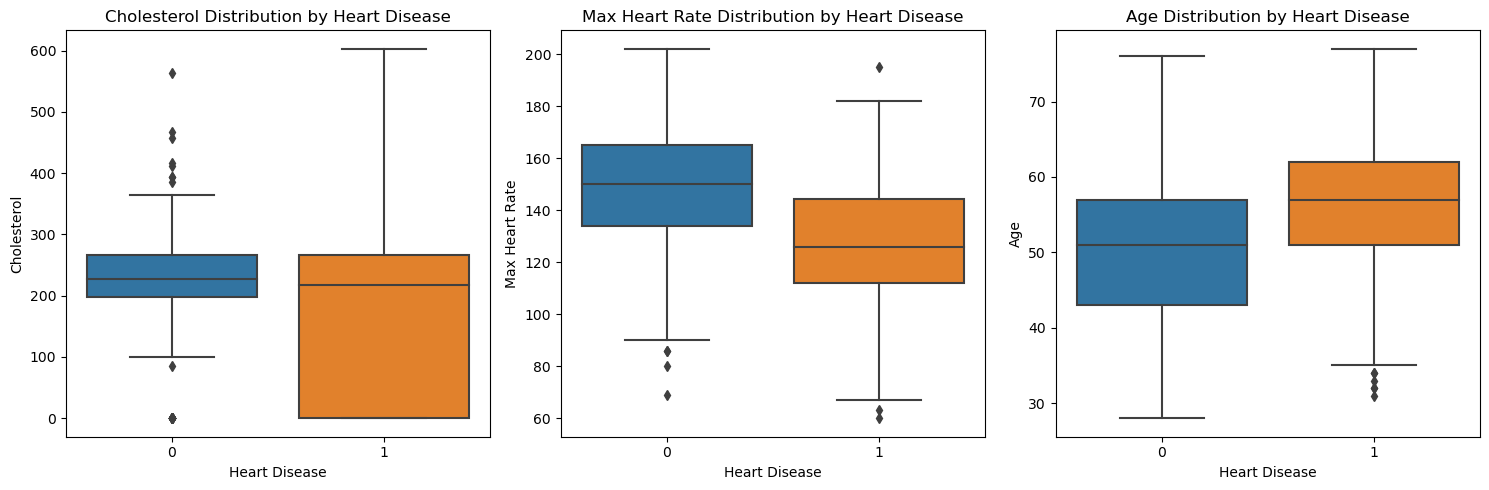
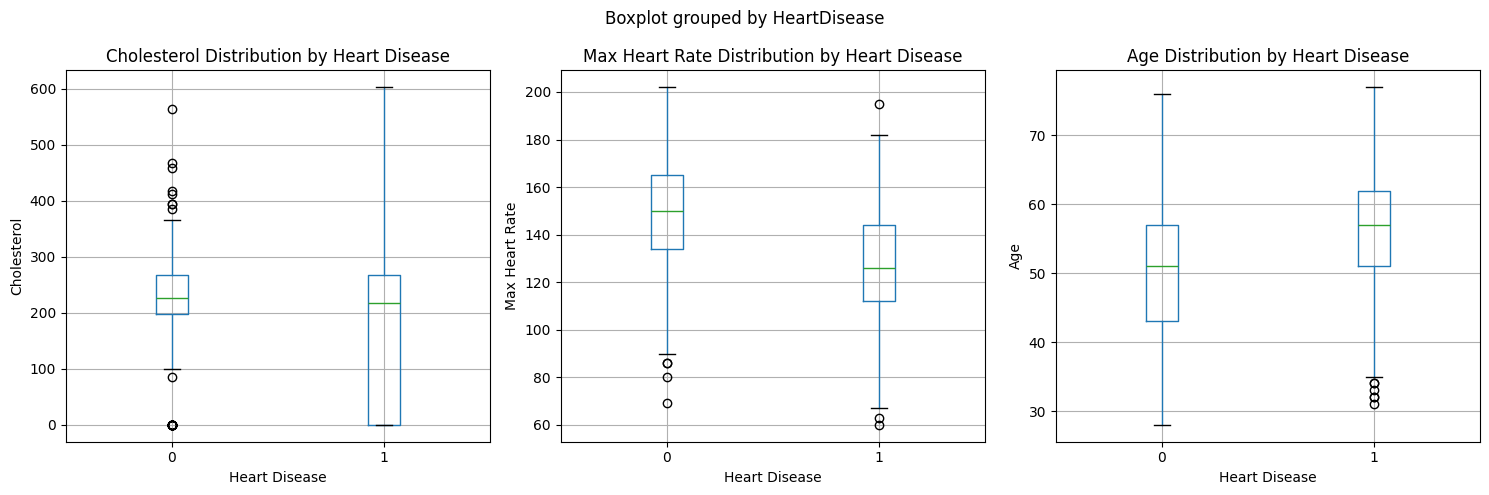
Built site for gh-pages

diff --git a/posts/2021-01-31-ebm.html b/posts/2021-01-31-ebm.html
@@ -242,26 +242,25 @@ pre > code.sourceCode > span > a:first-child::before { text-decoration: underlin
 </section>
 <section id="hands-on-tutorial" class="level2">
 <h2 class="anchored" data-anchor-id="hands-on-tutorial">Hands-On Tutorial:</h2>
-<div id="cell-7" class="cell" data-execution_count="55">
+<div id="cell-7" class="cell" data-execution_count="37">
 <div class="sourceCode cell-code" id="cb1"><pre class="sourceCode python code-with-copy"><code class="sourceCode python"><span id="cb1-1"><a href="#cb1-1" aria-hidden="true" tabindex="-1"></a><span class="im">import</span> pandas <span class="im">as</span> pd</span>
 <span id="cb1-2"><a href="#cb1-2" aria-hidden="true" tabindex="-1"></a><span class="im">import</span> numpy <span class="im">as</span> np</span>
 <span id="cb1-3"><a href="#cb1-3" aria-hidden="true" tabindex="-1"></a><span class="im">import</span> matplotlib.pyplot <span class="im">as</span> plt</span>
-<span id="cb1-4"><a href="#cb1-4" aria-hidden="true" tabindex="-1"></a><span class="im">import</span> seaborn <span class="im">as</span> sns</span>
-<span id="cb1-5"><a href="#cb1-5" aria-hidden="true" tabindex="-1"></a><span class="im">import</span> kagglehub</span>
-<span id="cb1-6"><a href="#cb1-6" aria-hidden="true" tabindex="-1"></a><span class="im">from</span> sklearn.feature_selection <span class="im">import</span> mutual_info_classif</span>
-<span id="cb1-7"><a href="#cb1-7" aria-hidden="true" tabindex="-1"></a><span class="im">from</span> sklearn.model_selection <span class="im">import</span> train_test_split</span>
-<span id="cb1-8"><a href="#cb1-8" aria-hidden="true" tabindex="-1"></a><span class="im">from</span> sklearn.metrics <span class="im">import</span> roc_auc_score</span>
-<span id="cb1-9"><a href="#cb1-9" aria-hidden="true" tabindex="-1"></a><span class="im">from</span> sklearn.metrics <span class="im">import</span> accuracy_score, precision_score, recall_score, f1_score</span>
-<span id="cb1-10"><a href="#cb1-10" aria-hidden="true" tabindex="-1"></a><span class="im">from</span> interpret <span class="im">import</span> show</span>
-<span id="cb1-11"><a href="#cb1-11" aria-hidden="true" tabindex="-1"></a><span class="im">from</span> interpret.glassbox <span class="im">import</span> ExplainableBoostingClassifier</span>
-<span id="cb1-12"><a href="#cb1-12" aria-hidden="true" tabindex="-1"></a><span class="im">from</span> sklearn.ensemble <span class="im">import</span> RandomForestClassifier</span>
-<span id="cb1-13"><a href="#cb1-13" aria-hidden="true" tabindex="-1"></a><span class="im">import</span> xgboost <span class="im">as</span> xgb</span>
-<span id="cb1-14"><a href="#cb1-14" aria-hidden="true" tabindex="-1"></a></span>
-<span id="cb1-15"><a href="#cb1-15" aria-hidden="true" tabindex="-1"></a><span class="co"># Suppress warnings</span></span>
-<span id="cb1-16"><a href="#cb1-16" aria-hidden="true" tabindex="-1"></a><span class="im">import</span> warnings</span>
-<span id="cb1-17"><a href="#cb1-17" aria-hidden="true" tabindex="-1"></a>warnings.filterwarnings(<span class="st">'ignore'</span>)</span>
-<span id="cb1-18"><a href="#cb1-18" aria-hidden="true" tabindex="-1"></a></span>
-<span id="cb1-19"><a href="#cb1-19" aria-hidden="true" tabindex="-1"></a><span class="op">%</span>matplotlib inline</span></code><button title="Copy to Clipboard" class="code-copy-button"><i class="bi"></i></button></pre></div>
+<span id="cb1-4"><a href="#cb1-4" aria-hidden="true" tabindex="-1"></a><span class="im">import</span> kagglehub</span>
+<span id="cb1-5"><a href="#cb1-5" aria-hidden="true" tabindex="-1"></a><span class="im">from</span> sklearn.feature_selection <span class="im">import</span> mutual_info_classif</span>
+<span id="cb1-6"><a href="#cb1-6" aria-hidden="true" tabindex="-1"></a><span class="im">from</span> sklearn.model_selection <span class="im">import</span> train_test_split</span>
+<span id="cb1-7"><a href="#cb1-7" aria-hidden="true" tabindex="-1"></a><span class="im">from</span> sklearn.metrics <span class="im">import</span> roc_auc_score</span>
+<span id="cb1-8"><a href="#cb1-8" aria-hidden="true" tabindex="-1"></a><span class="im">from</span> sklearn.metrics <span class="im">import</span> accuracy_score, precision_score, recall_score, f1_score</span>
+<span id="cb1-9"><a href="#cb1-9" aria-hidden="true" tabindex="-1"></a><span class="im">from</span> interpret <span class="im">import</span> show</span>
+<span id="cb1-10"><a href="#cb1-10" aria-hidden="true" tabindex="-1"></a><span class="im">from</span> interpret.glassbox <span class="im">import</span> ExplainableBoostingClassifier</span>
+<span id="cb1-11"><a href="#cb1-11" aria-hidden="true" tabindex="-1"></a><span class="im">from</span> sklearn.ensemble <span class="im">import</span> RandomForestClassifier</span>
+<span id="cb1-12"><a href="#cb1-12" aria-hidden="true" tabindex="-1"></a><span class="im">import</span> xgboost <span class="im">as</span> xgb</span>
+<span id="cb1-13"><a href="#cb1-13" aria-hidden="true" tabindex="-1"></a></span>
+<span id="cb1-14"><a href="#cb1-14" aria-hidden="true" tabindex="-1"></a><span class="co"># Suppress warnings</span></span>
+<span id="cb1-15"><a href="#cb1-15" aria-hidden="true" tabindex="-1"></a><span class="im">import</span> warnings</span>
+<span id="cb1-16"><a href="#cb1-16" aria-hidden="true" tabindex="-1"></a>warnings.filterwarnings(<span class="st">'ignore'</span>)</span>
+<span id="cb1-17"><a href="#cb1-17" aria-hidden="true" tabindex="-1"></a></span>
+<span id="cb1-18"><a href="#cb1-18" aria-hidden="true" tabindex="-1"></a><span class="op">%</span>matplotlib inline</span></code><button title="Copy to Clipboard" class="code-copy-button"><i class="bi"></i></button></pre></div>
 </div>
 <section id="downloading-the-dataset" class="level3">
 <h3 class="anchored" data-anchor-id="downloading-the-dataset">Downloading the dataset:</h3>
@@ -273,7 +272,7 @@ pre > code.sourceCode > span > a:first-child::before { text-decoration: underlin
 <li>This will download a <code>kaggle.json</code> file - place it in <code>~/.kaggle/</code> on Linux/Mac or <code>C:\Users\&lt;Windows-username&gt;\.kaggle\</code> on Windows.</li>
 </ol>
 <p>Once set up, you can download the dataset using the Kaggle API. We’ll show the code for this in the next cell.</p>
-<div id="cell-10" class="cell" data-execution_count="56">
+<div id="cell-10" class="cell" data-execution_count="38">
 <div class="sourceCode cell-code" id="cb2"><pre class="sourceCode python code-with-copy"><code class="sourceCode python"><span id="cb2-1"><a href="#cb2-1" aria-hidden="true" tabindex="-1"></a><span class="co"># Download latest version</span></span>
 <span id="cb2-2"><a href="#cb2-2" aria-hidden="true" tabindex="-1"></a>path <span class="op">=</span> kagglehub.dataset_download(<span class="st">"fedesoriano/heart-failure-prediction"</span>)</span>
 <span id="cb2-3"><a href="#cb2-3" aria-hidden="true" tabindex="-1"></a></span>
@@ -283,10 +282,10 @@ pre > code.sourceCode > span > a:first-child::before { text-decoration: underlin
 </div>
 </div>
 <p>Let’s load the dataset:</p>
-<div id="cell-12" class="cell" data-execution_count="57">
+<div id="cell-12" class="cell" data-execution_count="39">
 <div class="sourceCode cell-code" id="cb4"><pre class="sourceCode python code-with-copy"><code class="sourceCode python"><span id="cb4-1"><a href="#cb4-1" aria-hidden="true" tabindex="-1"></a>df<span class="op">=</span> pd.read_csv(path <span class="op">+</span> <span class="st">"/heart.csv"</span>)</span>
 <span id="cb4-2"><a href="#cb4-2" aria-hidden="true" tabindex="-1"></a>df.head()</span></code><button title="Copy to Clipboard" class="code-copy-button"><i class="bi"></i></button></pre></div>
-<div class="cell-output cell-output-display" data-execution_count="57">
+<div class="cell-output cell-output-display" data-execution_count="39">
 <div>
 <div>
 
@@ -412,11 +411,11 @@ pre > code.sourceCode > span > a:first-child::before { text-decoration: underlin
 <section id="exploratory-data-analysis" class="level3">
 <h3 class="anchored" data-anchor-id="exploratory-data-analysis">Exploratory Data Analysis:</h3>
 <p>Let’s start by exploring the dataset with some basic visualizations and statistics.</p>
-<div id="cell-16" class="cell" data-execution_count="58">
+<div id="cell-16" class="cell" data-execution_count="40">
 <div class="sourceCode cell-code" id="cb5"><pre class="sourceCode python code-with-copy"><code class="sourceCode python"><span id="cb5-1"><a href="#cb5-1" aria-hidden="true" tabindex="-1"></a><span class="co"># Check for missing values</span></span>
 <span id="cb5-2"><a href="#cb5-2" aria-hidden="true" tabindex="-1"></a>missing_values <span class="op">=</span> df.isnull().<span class="bu">sum</span>()</span></code><button title="Copy to Clipboard" class="code-copy-button"><i class="bi"></i></button></pre></div>
 </div>
-<div id="cell-17" class="cell" data-execution_count="59">
+<div id="cell-17" class="cell" data-execution_count="41">
 <div class="sourceCode cell-code" id="cb6"><pre class="sourceCode python code-with-copy"><code class="sourceCode python"><span id="cb6-1"><a href="#cb6-1" aria-hidden="true" tabindex="-1"></a><span class="co"># Check for class imbalance</span></span>
 <span id="cb6-2"><a href="#cb6-2" aria-hidden="true" tabindex="-1"></a>class_counts <span class="op">=</span> df[<span class="st">'HeartDisease'</span>].value_counts()</span>
 <span id="cb6-3"><a href="#cb6-3" aria-hidden="true" tabindex="-1"></a></span>
@@ -439,7 +438,7 @@ pre > code.sourceCode > span > a:first-child::before { text-decoration: underlin
 <p>Next, we’ll analyze the mutual information between our features and the target variable. Mutual information (MI) is a measure from information theory that quantifies the mutual dependence between two variables - specifically, it measures how much information one variable provides about another.</p>
 <p>When used in feature analysis, MI helps us understand: 1. The strength of the relationship between each feature and the target variable (HeartDisease) 2. The amount of uncertainty about the target that is reduced by knowing a feature 3. Non-linear relationships that might not be captured by simpler correlation metrics</p>
 <p>Unlike correlation coefficients, mutual information: - Can detect non-linear relationships - Is always non-negative (0 indicates no mutual information, higher values indicate stronger relationships) - Doesn’t assume any particular distribution of the variables</p>
-<div id="cell-19" class="cell" data-execution_count="60">
+<div id="cell-19" class="cell" data-execution_count="42">
 <div class="sourceCode cell-code" id="cb7"><pre class="sourceCode python code-with-copy"><code class="sourceCode python"><span id="cb7-1"><a href="#cb7-1" aria-hidden="true" tabindex="-1"></a>X <span class="op">=</span> df.copy()</span>
 <span id="cb7-2"><a href="#cb7-2" aria-hidden="true" tabindex="-1"></a>y <span class="op">=</span> X.pop(<span class="st">"HeartDisease"</span>)</span>
 <span id="cb7-3"><a href="#cb7-3" aria-hidden="true" tabindex="-1"></a></span>
@@ -449,7 +448,7 @@ pre > code.sourceCode > span > a:first-child::before { text-decoration: underlin
 <span id="cb7-7"><a href="#cb7-7" aria-hidden="true" tabindex="-1"></a></span>
 <span id="cb7-8"><a href="#cb7-8" aria-hidden="true" tabindex="-1"></a>discrete_features <span class="op">=</span> X.dtypes <span class="op">==</span> <span class="bu">int</span></span></code><button title="Copy to Clipboard" class="code-copy-button"><i class="bi"></i></button></pre></div>
 </div>
-<div id="cell-20" class="cell" data-execution_count="61">
+<div id="cell-20" class="cell" data-execution_count="43">
 <div class="sourceCode cell-code" id="cb8"><pre class="sourceCode python code-with-copy"><code class="sourceCode python"><span id="cb8-1"><a href="#cb8-1" aria-hidden="true" tabindex="-1"></a><span class="kw">def</span> make_mi_scores(X, y, discrete_features):</span>
 <span id="cb8-2"><a href="#cb8-2" aria-hidden="true" tabindex="-1"></a>    mi_scores <span class="op">=</span> mutual_info_classif(X, y, discrete_features<span class="op">=</span>discrete_features)</span>
 <span id="cb8-3"><a href="#cb8-3" aria-hidden="true" tabindex="-1"></a>    mi_scores <span class="op">=</span> pd.Series(mi_scores, name<span class="op">=</span><span class="st">"MI Scores"</span>, index<span class="op">=</span>X.columns)</span>
@@ -458,7 +457,7 @@ pre > code.sourceCode > span > a:first-child::before { text-decoration: underlin
 <span id="cb8-6"><a href="#cb8-6" aria-hidden="true" tabindex="-1"></a></span>
 <span id="cb8-7"><a href="#cb8-7" aria-hidden="true" tabindex="-1"></a>mi_scores <span class="op">=</span> make_mi_scores(X, y, discrete_features)</span>
 <span id="cb8-8"><a href="#cb8-8" aria-hidden="true" tabindex="-1"></a>mi_scores[::<span class="dv">3</span>]</span></code><button title="Copy to Clipboard" class="code-copy-button"><i class="bi"></i></button></pre></div>
-<div class="cell-output cell-output-display" data-execution_count="61">
+<div class="cell-output cell-output-display" data-execution_count="43">
 <pre><code>Cholesterol      0.223062
 ChestPainType    0.155988
 Age              0.073583
@@ -467,7 +466,7 @@ Name: MI Scores, dtype: float64</code></pre>
 </div>
 </div>
 <p>Now, let’s plot the MI scores for each feature:</p>
-<div id="cell-22" class="cell" data-execution_count="62">
+<div id="cell-22" class="cell" data-execution_count="44">
 <div class="sourceCode cell-code" id="cb10"><pre class="sourceCode python code-with-copy"><code class="sourceCode python"><span id="cb10-1"><a href="#cb10-1" aria-hidden="true" tabindex="-1"></a><span class="kw">def</span> plot_mi_scores(scores):</span>
 <span id="cb10-2"><a href="#cb10-2" aria-hidden="true" tabindex="-1"></a>    scores <span class="op">=</span> scores.sort_values(ascending<span class="op">=</span><span class="va">True</span>)</span>
 <span id="cb10-3"><a href="#cb10-3" aria-hidden="true" tabindex="-1"></a>    width <span class="op">=</span> np.arange(<span class="bu">len</span>(scores))</span>
@@ -487,9 +486,9 @@ Name: MI Scores, dtype: float64</code></pre>
 </div>
 </div>
 </div>
-<div id="cell-23" class="cell" data-execution_count="63">
+<div id="cell-23" class="cell" data-execution_count="45">
 <div class="sourceCode cell-code" id="cb11"><pre class="sourceCode python code-with-copy"><code class="sourceCode python"><span id="cb11-1"><a href="#cb11-1" aria-hidden="true" tabindex="-1"></a>mi_scores</span></code><button title="Copy to Clipboard" class="code-copy-button"><i class="bi"></i></button></pre></div>
-<div class="cell-output cell-output-display" data-execution_count="63">
+<div class="cell-output cell-output-display" data-execution_count="45">
 <pre><code>Cholesterol       0.223062
 ST_Slope          0.207474
 MaxHR             0.161544
@@ -513,27 +512,27 @@ Name: MI Scores, dtype: float64</code></pre>
 </ul>
 <p>This suggests that cholesterol levels, ST_Slope, maximum heart rate achieved during exercise and chest pain characteristics should be key features to focus on in our model. The relatively lower scores for age and blood sugar indicate they may be less predictive, though still potentially useful.</p>
 <p>Can we look at some box plots to confirm the relationship between the features and the target variable?</p>
-<div id="cell-25" class="cell" data-execution_count="64">
+<div id="cell-25" class="cell" data-execution_count="46">
 <div class="sourceCode cell-code" id="cb13"><pre class="sourceCode python code-with-copy"><code class="sourceCode python"><span id="cb13-1"><a href="#cb13-1" aria-hidden="true" tabindex="-1"></a><span class="co"># Create box plots to better show the relationship between features and heart disease</span></span>
 <span id="cb13-2"><a href="#cb13-2" aria-hidden="true" tabindex="-1"></a>plt.figure(figsize<span class="op">=</span>(<span class="dv">15</span>, <span class="dv">5</span>))</span>
 <span id="cb13-3"><a href="#cb13-3" aria-hidden="true" tabindex="-1"></a></span>
 <span id="cb13-4"><a href="#cb13-4" aria-hidden="true" tabindex="-1"></a><span class="co"># Plot Cholesterol distribution by Heart Disease</span></span>
 <span id="cb13-5"><a href="#cb13-5" aria-hidden="true" tabindex="-1"></a>plt.subplot(<span class="dv">131</span>)</span>
-<span id="cb13-6"><a href="#cb13-6" aria-hidden="true" tabindex="-1"></a>sns.boxplot(x<span class="op">=</span><span class="st">'HeartDisease'</span>, y<span class="op">=</span><span class="st">'Cholesterol'</span>, data<span class="op">=</span>pd.concat([X, y], axis<span class="op">=</span><span class="dv">1</span>))</span>
+<span id="cb13-6"><a href="#cb13-6" aria-hidden="true" tabindex="-1"></a>df.boxplot(column<span class="op">=</span><span class="st">'Cholesterol'</span>, by<span class="op">=</span><span class="st">'HeartDisease'</span>, ax<span class="op">=</span>plt.gca())</span>
 <span id="cb13-7"><a href="#cb13-7" aria-hidden="true" tabindex="-1"></a>plt.xlabel(<span class="st">'Heart Disease'</span>)</span>
 <span id="cb13-8"><a href="#cb13-8" aria-hidden="true" tabindex="-1"></a>plt.ylabel(<span class="st">'Cholesterol'</span>)</span>
 <span id="cb13-9"><a href="#cb13-9" aria-hidden="true" tabindex="-1"></a>plt.title(<span class="st">'Cholesterol Distribution by Heart Disease'</span>)</span>
 <span id="cb13-10"><a href="#cb13-10" aria-hidden="true" tabindex="-1"></a></span>
 <span id="cb13-11"><a href="#cb13-11" aria-hidden="true" tabindex="-1"></a><span class="co"># Plot MaxHR distribution by Heart Disease</span></span>
 <span id="cb13-12"><a href="#cb13-12" aria-hidden="true" tabindex="-1"></a>plt.subplot(<span class="dv">132</span>)</span>
-<span id="cb13-13"><a href="#cb13-13" aria-hidden="true" tabindex="-1"></a>sns.boxplot(x<span class="op">=</span><span class="st">'HeartDisease'</span>, y<span class="op">=</span><span class="st">'MaxHR'</span>, data<span class="op">=</span>pd.concat([X, y], axis<span class="op">=</span><span class="dv">1</span>))</span>
+<span id="cb13-13"><a href="#cb13-13" aria-hidden="true" tabindex="-1"></a>df.boxplot(column<span class="op">=</span><span class="st">'MaxHR'</span>, by<span class="op">=</span><span class="st">'HeartDisease'</span>, ax<span class="op">=</span>plt.gca())</span>
 <span id="cb13-14"><a href="#cb13-14" aria-hidden="true" tabindex="-1"></a>plt.xlabel(<span class="st">'Heart Disease'</span>)</span>
 <span id="cb13-15"><a href="#cb13-15" aria-hidden="true" tabindex="-1"></a>plt.ylabel(<span class="st">'Max Heart Rate'</span>)</span>
 <span id="cb13-16"><a href="#cb13-16" aria-hidden="true" tabindex="-1"></a>plt.title(<span class="st">'Max Heart Rate Distribution by Heart Disease'</span>)</span>
 <span id="cb13-17"><a href="#cb13-17" aria-hidden="true" tabindex="-1"></a></span>
 <span id="cb13-18"><a href="#cb13-18" aria-hidden="true" tabindex="-1"></a><span class="co"># Plot Age distribution by Heart Disease</span></span>
 <span id="cb13-19"><a href="#cb13-19" aria-hidden="true" tabindex="-1"></a>plt.subplot(<span class="dv">133</span>)</span>
-<span id="cb13-20"><a href="#cb13-20" aria-hidden="true" tabindex="-1"></a>sns.boxplot(x<span class="op">=</span><span class="st">'HeartDisease'</span>, y<span class="op">=</span><span class="st">'Age'</span>, data<span class="op">=</span>pd.concat([X, y], axis<span class="op">=</span><span class="dv">1</span>))</span>
+<span id="cb13-20"><a href="#cb13-20" aria-hidden="true" tabindex="-1"></a>df.boxplot(column<span class="op">=</span><span class="st">'Age'</span>, by<span class="op">=</span><span class="st">'HeartDisease'</span>, ax<span class="op">=</span>plt.gca())</span>
 <span id="cb13-21"><a href="#cb13-21" aria-hidden="true" tabindex="-1"></a>plt.xlabel(<span class="st">'Heart Disease'</span>)</span>
 <span id="cb13-22"><a href="#cb13-22" aria-hidden="true" tabindex="-1"></a>plt.ylabel(<span class="st">'Age'</span>)</span>
 <span id="cb13-23"><a href="#cb13-23" aria-hidden="true" tabindex="-1"></a>plt.title(<span class="st">'Age Distribution by Heart Disease'</span>)</span>
@@ -572,10 +571,10 @@ Name: MI Scores, dtype: float64</code></pre>
 </ul>
 <p>This means we can use our raw data directly without extensive preprocessing, which is one of the advantages of using EBMs. The model will learn the appropriate transformations for each feature during training while maintaining interpretability.</p>
 <p><em>Isn’t this cool? 🤯</em></p>
-<div id="cell-29" class="cell" data-execution_count="65">
+<div id="cell-29" class="cell" data-execution_count="47">
 <div class="sourceCode cell-code" id="cb14"><pre class="sourceCode python code-with-copy"><code class="sourceCode python"><span id="cb14-1"><a href="#cb14-1" aria-hidden="true" tabindex="-1"></a><span class="co"># one look at the data before we build the model</span></span>
 <span id="cb14-2"><a href="#cb14-2" aria-hidden="true" tabindex="-1"></a>df.head()</span></code><button title="Copy to Clipboard" class="code-copy-button"><i class="bi"></i></button></pre></div>
-<div class="cell-output cell-output-display" data-execution_count="65">
+<div class="cell-output cell-output-display" data-execution_count="47">
 <div>
 <div>
 
@@ -682,7 +681,7 @@ Name: MI Scores, dtype: float64</code></pre>
 </div>
 </div>
 <p>Splitting the data into train and test sets:</p>
-<div id="cell-31" class="cell" data-execution_count="66">
+<div id="cell-31" class="cell" data-execution_count="48">
 <div class="sourceCode cell-code" id="cb15"><pre class="sourceCode python code-with-copy"><code class="sourceCode python"><span id="cb15-1"><a href="#cb15-1" aria-hidden="true" tabindex="-1"></a>X <span class="op">=</span> df.iloc[:, :<span class="op">-</span><span class="dv">1</span>]</span>
 <span id="cb15-2"><a href="#cb15-2" aria-hidden="true" tabindex="-1"></a>y <span class="op">=</span> df.iloc[:, <span class="op">-</span><span class="dv">1</span>]</span>
 <span id="cb15-3"><a href="#cb15-3" aria-hidden="true" tabindex="-1"></a></span>
@@ -691,7 +690,7 @@ Name: MI Scores, dtype: float64</code></pre>
 <span id="cb15-6"><a href="#cb15-6" aria-hidden="true" tabindex="-1"></a>X_train, X_test, y_train, y_test <span class="op">=</span> train_test_split(X, y, test_size<span class="op">=</span><span class="fl">0.20</span>, random_state<span class="op">=</span>seed)</span></code><button title="Copy to Clipboard" class="code-copy-button"><i class="bi"></i></button></pre></div>
 </div>
 <p>Let’s train a simple EBM model:</p>
-<div id="cell-33" class="cell" data-execution_count="67">
+<div id="cell-33" class="cell" data-execution_count="49">
 <div class="sourceCode cell-code" id="cb16"><pre class="sourceCode python code-with-copy"><code class="sourceCode python"><span id="cb16-1"><a href="#cb16-1" aria-hidden="true" tabindex="-1"></a>ebm <span class="op">=</span> ExplainableBoostingClassifier()</span>
 <span id="cb16-2"><a href="#cb16-2" aria-hidden="true" tabindex="-1"></a>ebm.fit(X_train, y_train)</span></code><button title="Copy to Clipboard" class="code-copy-button"><i class="bi"></i></button></pre></div>
 <div class="cell-output cell-output-stderr">
@@ -712,12 +711,12 @@ Name: MI Scores, dtype: float64</code></pre>
 /Users/mehuljain/miniconda3/envs/aaamlp/lib/python3.10/site-packages/pandas/core/arrays/masked.py:60: UserWarning: Pandas requires version '1.3.6' or newer of 'bottleneck' (version '1.3.5' currently installed).
   from pandas.core import (</code></pre>
 </div>
-<div class="cell-output cell-output-display" data-execution_count="67">
+<div class="cell-output cell-output-display" data-execution_count="49">
 <style>#sk-container-id-2 {color: black;background-color: white;}#sk-container-id-2 pre{padding: 0;}#sk-container-id-2 div.sk-toggleable {background-color: white;}#sk-container-id-2 label.sk-toggleable__label {cursor: pointer;display: block;width: 100%;margin-bottom: 0;padding: 0.3em;box-sizing: border-box;text-align: center;}#sk-container-id-2 label.sk-toggleable__label-arrow:before {content: "▸";float: left;margin-right: 0.25em;color: #696969;}#sk-container-id-2 label.sk-toggleable__label-arrow:hover:before {color: black;}#sk-container-id-2 div.sk-estimator:hover label.sk-toggleable__label-arrow:before {color: black;}#sk-container-id-2 div.sk-toggleable__content {max-height: 0;max-width: 0;overflow: hidden;text-align: left;background-color: #f0f8ff;}#sk-container-id-2 div.sk-toggleable__content pre {margin: 0.2em;color: black;border-radius: 0.25em;background-color: #f0f8ff;}#sk-container-id-2 input.sk-toggleable__control:checked~div.sk-toggleable__content {max-height: 200px;max-width: 100%;overflow: auto;}#sk-container-id-2 input.sk-toggleable__control:checked~label.sk-toggleable__label-arrow:before {content: "▾";}#sk-container-id-2 div.sk-estimator input.sk-toggleable__control:checked~label.sk-toggleable__label {background-color: #d4ebff;}#sk-container-id-2 div.sk-label input.sk-toggleable__control:checked~label.sk-toggleable__label {background-color: #d4ebff;}#sk-container-id-2 input.sk-hidden--visually {border: 0;clip: rect(1px 1px 1px 1px);clip: rect(1px, 1px, 1px, 1px);height: 1px;margin: -1px;overflow: hidden;padding: 0;position: absolute;width: 1px;}#sk-container-id-2 div.sk-estimator {font-family: monospace;background-color: #f0f8ff;border: 1px dotted black;border-radius: 0.25em;box-sizing: border-box;margin-bottom: 0.5em;}#sk-container-id-2 div.sk-estimator:hover {background-color: #d4ebff;}#sk-container-id-2 div.sk-parallel-item::after {content: "";width: 100%;border-bottom: 1px solid gray;flex-grow: 1;}#sk-container-id-2 div.sk-label:hover label.sk-toggleable__label {background-color: #d4ebff;}#sk-container-id-2 div.sk-serial::before {content: "";position: absolute;border-left: 1px solid gray;box-sizing: border-box;top: 0;bottom: 0;left: 50%;z-index: 0;}#sk-container-id-2 div.sk-serial {display: flex;flex-direction: column;align-items: center;background-color: white;padding-right: 0.2em;padding-left: 0.2em;position: relative;}#sk-container-id-2 div.sk-item {position: relative;z-index: 1;}#sk-container-id-2 div.sk-parallel {display: flex;align-items: stretch;justify-content: center;background-color: white;position: relative;}#sk-container-id-2 div.sk-item::before, #sk-container-id-2 div.sk-parallel-item::before {content: "";position: absolute;border-left: 1px solid gray;box-sizing: border-box;top: 0;bottom: 0;left: 50%;z-index: -1;}#sk-container-id-2 div.sk-parallel-item {display: flex;flex-direction: column;z-index: 1;position: relative;background-color: white;}#sk-container-id-2 div.sk-parallel-item:first-child::after {align-self: flex-end;width: 50%;}#sk-container-id-2 div.sk-parallel-item:last-child::after {align-self: flex-start;width: 50%;}#sk-container-id-2 div.sk-parallel-item:only-child::after {width: 0;}#sk-container-id-2 div.sk-dashed-wrapped {border: 1px dashed gray;margin: 0 0.4em 0.5em 0.4em;box-sizing: border-box;padding-bottom: 0.4em;background-color: white;}#sk-container-id-2 div.sk-label label {font-family: monospace;font-weight: bold;display: inline-block;line-height: 1.2em;}#sk-container-id-2 div.sk-label-container {text-align: center;}#sk-container-id-2 div.sk-container {/* jupyter's `normalize.less` sets `[hidden] { display: none; }` but bootstrap.min.css set `[hidden] { display: none !important; }` so we also need the `!important` here to be able to override the default hidden behavior on the sphinx rendered scikit-learn.org. See: https://github.com/scikit-learn/scikit-learn/issues/21755 */display: inline-block !important;position: relative;}#sk-container-id-2 div.sk-text-repr-fallback {display: none;}</style><div id="sk-container-id-2" class="sk-top-container"><div class="sk-text-repr-fallback"><pre>ExplainableBoostingClassifier()</pre><b>In a Jupyter environment, please rerun this cell to show the HTML representation or trust the notebook. <br>On GitHub, the HTML representation is unable to render, please try loading this page with nbviewer.org.</b></div><div class="sk-container" hidden=""><div class="sk-item"><div class="sk-estimator sk-toggleable"><input class="sk-toggleable__control sk-hidden--visually" id="sk-estimator-id-2" type="checkbox" checked=""><label for="sk-estimator-id-2" class="sk-toggleable__label sk-toggleable__label-arrow">ExplainableBoostingClassifier</label><div class="sk-toggleable__content"><pre>ExplainableBoostingClassifier()</pre></div></div></div></div></div>
 </div>
 </div>
 <p>How does it perform?</p>
-<div id="cell-35" class="cell" data-execution_count="68">
+<div id="cell-35" class="cell" data-execution_count="50">
 <div class="sourceCode cell-code" id="cb18"><pre class="sourceCode python code-with-copy"><code class="sourceCode python"><span id="cb18-1"><a href="#cb18-1" aria-hidden="true" tabindex="-1"></a>auc <span class="op">=</span> roc_auc_score(y_test, ebm.predict_proba(X_test)[:, <span class="dv">1</span>])</span>
 <span id="cb18-2"><a href="#cb18-2" aria-hidden="true" tabindex="-1"></a><span class="bu">print</span>(<span class="st">"AUC: </span><span class="sc">{:.3f}</span><span class="st">"</span>.<span class="bu">format</span>(auc))</span>
 <span id="cb18-3"><a href="#cb18-3" aria-hidden="true" tabindex="-1"></a></span>
@@ -755,11 +754,36 @@ F1 Score: 0.886</code></pre>
 <p>Let’s start by looking at the global interpretation of the model.</p>
 <p><strong>What is global interpretation?</strong></p>
 <p>Global interpretations help us understand the model’s behavior as a whole. It gives us a clear picture of the model’s strengths and weaknesses, and how it makes predictions. The initial plot is a good starting point to get an overview of the model’s behavior. To dig deeper, we can use the drop-down menu to search, filter and see how individual features contribute to the model’s predictions.</p>
-<div id="cell-39" class="cell" data-execution_count="69">
+<div id="cell-39" class="cell" data-execution_count="51">
 <div class="sourceCode cell-code" id="cb20"><pre class="sourceCode python code-with-copy"><code class="sourceCode python"><span id="cb20-1"><a href="#cb20-1" aria-hidden="true" tabindex="-1"></a>show(ebm.explain_global())</span></code><button title="Copy to Clipboard" class="code-copy-button"><i class="bi"></i></button></pre></div>
-<div class="cell-output cell-output-display">
-<!-- http://127.0.0.1:7001/6214431024/ -->
-<iframe src="http://127.0.0.1:7001/6214431024/" width="100%" height="800" frameborder="0"></iframe>
+</div>
+<div class="tabset-margin-container"></div><div class="panel-tabset">
+<ul class="nav nav-tabs" role="tablist"><li class="nav-item" role="presentation"><a class="nav-link active" id="tabset-1-1-tab" data-bs-toggle="tab" data-bs-target="#tabset-1-1" role="tab" aria-controls="tabset-1-1" aria-selected="true">Global Interpretation Summary Plot</a></li><li class="nav-item" role="presentation"><a class="nav-link" id="tabset-1-2-tab" data-bs-toggle="tab" data-bs-target="#tabset-1-2" role="tab" aria-controls="tabset-1-2" aria-selected="false">ST Slope Plot</a></li><li class="nav-item" role="presentation"><a class="nav-link" id="tabset-1-3-tab" data-bs-toggle="tab" data-bs-target="#tabset-1-3" role="tab" aria-controls="tabset-1-3" aria-selected="false">Chest Pain Type Plot</a></li></ul>
+<div class="tab-content">
+<div id="tabset-1-1" class="tab-pane active" role="tabpanel" aria-labelledby="tabset-1-1-tab">
+<div class="quarto-figure quarto-figure-center">
+<figure class="figure">
+<p><img src="summary_plot.png" class="img-fluid figure-img"></p>
+<figcaption>Summary Plot</figcaption>
+</figure>
+</div>
+</div>
+<div id="tabset-1-2" class="tab-pane" role="tabpanel" aria-labelledby="tabset-1-2-tab">
+<div class="quarto-figure quarto-figure-center">
+<figure class="figure">
+<p><img src="st_slop.png" class="img-fluid figure-img"></p>
+<figcaption>ST Slope Plot</figcaption>
+</figure>
+</div>
+</div>
+<div id="tabset-1-3" class="tab-pane" role="tabpanel" aria-labelledby="tabset-1-3-tab">
+<div class="quarto-figure quarto-figure-center">
+<figure class="figure">
+<p><img src="chestpain.png" class="img-fluid figure-img"></p>
+<figcaption>Chest Pain Type Plot</figcaption>
+</figure>
+</div>
+</div>
 </div>
 </div>
 <p>Looking at the summary plot, we can derive the following insights:</p>
@@ -775,11 +799,28 @@ F1 Score: 0.886</code></pre>
 </ul>
 <p>Another reason why EBMs/interpretable models are so powerful is that they can help us find the bias in the data. For example, we can see that the model is biased towards predicting heart disease for males. This is likely due to the fact that the dataset is imbalanced and has more males than females. More specifically, the dataset has more males with heart disease than females.</p>
 <p>After getting the overview of the model, we can inspect the local explanations to see how individual predictions are made. For EBMs, these explanations are exact and perfectly describe how the model made the decision. These explanations are great for describing to the end users which features played the biggest role in a given prediction.</p>
-<div id="cell-41" class="cell" data-execution_count="70">
+<div id="cell-42" class="cell" data-execution_count="52">
 <div class="sourceCode cell-code" id="cb21"><pre class="sourceCode python code-with-copy"><code class="sourceCode python"><span id="cb21-1"><a href="#cb21-1" aria-hidden="true" tabindex="-1"></a>show(ebm.explain_local(X_test[:<span class="dv">5</span>], y_test[:<span class="dv">5</span>]), <span class="dv">0</span>)</span></code><button title="Copy to Clipboard" class="code-copy-button"><i class="bi"></i></button></pre></div>
-<div class="cell-output cell-output-display">
-<!-- http://127.0.0.1:7001/6214434768/ -->
-<iframe src="http://127.0.0.1:7001/6214434768/" width="100%" height="800" frameborder="0"></iframe>
+</div>
+<div class="tabset-margin-container"></div><div class="panel-tabset">
+<ul class="nav nav-tabs" role="tablist"><li class="nav-item" role="presentation"><a class="nav-link active" id="tabset-2-1-tab" data-bs-toggle="tab" data-bs-target="#tabset-2-1" role="tab" aria-controls="tabset-2-1" aria-selected="true">Prediction 1</a></li><li class="nav-item" role="presentation"><a class="nav-link" id="tabset-2-2-tab" data-bs-toggle="tab" data-bs-target="#tabset-2-2" role="tab" aria-controls="tabset-2-2" aria-selected="false">Prediction 2</a></li></ul>
+<div class="tab-content">
+<div id="tabset-2-1" class="tab-pane active" role="tabpanel" aria-labelledby="tabset-2-1-tab">
+<div class="quarto-figure quarto-figure-center">
+<figure class="figure">
+<p><img src="ebm_pred1.png" class="img-fluid figure-img"></p>
+<figcaption>Actual(0) | Prediction(0) | PrScore(0.973)</figcaption>
+</figure>
+</div>
+</div>
+<div id="tabset-2-2" class="tab-pane" role="tabpanel" aria-labelledby="tabset-2-2-tab">
+<div class="quarto-figure quarto-figure-center">
+<figure class="figure">
+<p><img src="ebm_pred2.png" class="img-fluid figure-img"></p>
+<figcaption>Actual(1) | Prediction(1) | PrScore(0.96)</figcaption>
+</figure>
+</div>
+</div>
 </div>
 </div>
 <p>The local explanations for the first 5 test samples tell us how the model arrived at each prediction. For example, in the first case, the model predicted no heart disease (score: 0.97) primarily due to the patient’s normal ST_Slope (Up) and low Oldpeak value. This kind of detailed information can lead to new knowledge that helps the medical professionals understand and assess the patient’s risk accurately.</p>
@@ -802,7 +843,7 @@ F1 Score: 0.886</code></pre>
 </ul></li>
 </ol>
 <p>Both models are strong baselines for tabular data problems like our heart disease prediction task. However, unlike EBM, these models are considered “black box” as their predictions are not as easily interpretable. By comparing their performance metrics with EBM, we can evaluate whether we’re sacrificing predictive power for interpretability.</p>
-<div id="cell-45" class="cell" data-execution_count="71">
+<div id="cell-47" class="cell" data-execution_count="53">
 <div class="sourceCode cell-code" id="cb22"><pre class="sourceCode python code-with-copy"><code class="sourceCode python"><span id="cb22-1"><a href="#cb22-1" aria-hidden="true" tabindex="-1"></a><span class="co"># Preprocess categorical variables</span></span>
 <span id="cb22-2"><a href="#cb22-2" aria-hidden="true" tabindex="-1"></a>categorical_features <span class="op">=</span> [<span class="st">'Sex'</span>, <span class="st">'ChestPainType'</span>, <span class="st">'RestingECG'</span>, <span class="st">'ExerciseAngina'</span>, <span class="st">'ST_Slope'</span>]</span>
 <span id="cb22-3"><a href="#cb22-3" aria-hidden="true" tabindex="-1"></a>X_train_encoded <span class="op">=</span> pd.get_dummies(X_train, columns<span class="op">=</span>categorical_features)</span>
@@ -814,32 +855,34 @@ F1 Score: 0.886</code></pre>
 <span id="cb22-9"><a href="#cb22-9" aria-hidden="true" tabindex="-1"></a>    X_test_encoded[col] <span class="op">=</span> <span class="dv">0</span></span>
 <span id="cb22-10"><a href="#cb22-10" aria-hidden="true" tabindex="-1"></a>X_test_encoded <span class="op">=</span> X_test_encoded[X_train_encoded.columns]</span>
 <span id="cb22-11"><a href="#cb22-11" aria-hidden="true" tabindex="-1"></a></span>
-<span id="cb22-12"><a href="#cb22-12" aria-hidden="true" tabindex="-1"></a><span class="co"># Train Random Forest</span></span>
-<span id="cb22-13"><a href="#cb22-13" aria-hidden="true" tabindex="-1"></a>rf <span class="op">=</span> RandomForestClassifier(n_estimators<span class="op">=</span><span class="dv">100</span>, random_state<span class="op">=</span><span class="dv">42</span>)</span>
-<span id="cb22-14"><a href="#cb22-14" aria-hidden="true" tabindex="-1"></a>rf.fit(X_train_encoded, y_train)</span>
+<span id="cb22-12"><a href="#cb22-12" aria-hidden="true" tabindex="-1"></a><span class="co"># Convert to numpy arrays</span></span>
+<span id="cb22-13"><a href="#cb22-13" aria-hidden="true" tabindex="-1"></a>X_train_encoded_np <span class="op">=</span> X_train_encoded.to_numpy()</span>
+<span id="cb22-14"><a href="#cb22-14" aria-hidden="true" tabindex="-1"></a>X_test_encoded_np <span class="op">=</span> X_test_encoded.to_numpy()</span>
 <span id="cb22-15"><a href="#cb22-15" aria-hidden="true" tabindex="-1"></a></span>
-<span id="cb22-16"><a href="#cb22-16" aria-hidden="true" tabindex="-1"></a><span class="co"># Train XGBoost </span></span>
-<span id="cb22-17"><a href="#cb22-17" aria-hidden="true" tabindex="-1"></a>xgb_model <span class="op">=</span> xgb.XGBClassifier(random_state<span class="op">=</span><span class="dv">42</span>)</span>
-<span id="cb22-18"><a href="#cb22-18" aria-hidden="true" tabindex="-1"></a>xgb_model.fit(X_train_encoded, y_train)</span>
+<span id="cb22-16"><a href="#cb22-16" aria-hidden="true" tabindex="-1"></a><span class="co"># Train Random Forest</span></span>
+<span id="cb22-17"><a href="#cb22-17" aria-hidden="true" tabindex="-1"></a>rf <span class="op">=</span> RandomForestClassifier(n_estimators<span class="op">=</span><span class="dv">100</span>, random_state<span class="op">=</span><span class="dv">42</span>)</span>
+<span id="cb22-18"><a href="#cb22-18" aria-hidden="true" tabindex="-1"></a>rf.fit(X_train_encoded, y_train)</span>
 <span id="cb22-19"><a href="#cb22-19" aria-hidden="true" tabindex="-1"></a></span>
-<span id="cb22-20"><a href="#cb22-20" aria-hidden="true" tabindex="-1"></a><span class="co"># Get predictions</span></span>
-<span id="cb22-21"><a href="#cb22-21" aria-hidden="true" tabindex="-1"></a>rf_pred <span class="op">=</span> rf.predict(X_test_encoded)</span>
-<span id="cb22-22"><a href="#cb22-22" aria-hidden="true" tabindex="-1"></a>rf_pred_proba <span class="op">=</span> rf.predict_proba(X_test_encoded)[:,<span class="dv">1</span>]</span>
+<span id="cb22-20"><a href="#cb22-20" aria-hidden="true" tabindex="-1"></a><span class="co"># Train XGBoost </span></span>
+<span id="cb22-21"><a href="#cb22-21" aria-hidden="true" tabindex="-1"></a>xgb_model <span class="op">=</span> xgb.XGBClassifier(random_state<span class="op">=</span><span class="dv">42</span>)</span>
+<span id="cb22-22"><a href="#cb22-22" aria-hidden="true" tabindex="-1"></a>xgb_model.fit(X_train_encoded_np, y_train)</span>
 <span id="cb22-23"><a href="#cb22-23" aria-hidden="true" tabindex="-1"></a></span>
-<span id="cb22-24"><a href="#cb22-24" aria-hidden="true" tabindex="-1"></a>xgb_pred <span class="op">=</span> xgb_model.predict(X_test_encoded)</span>
-<span id="cb22-25"><a href="#cb22-25" aria-hidden="true" tabindex="-1"></a>xgb_pred_proba <span class="op">=</span> xgb_model.predict_proba(X_test_encoded)[:,<span class="dv">1</span>]</span>
-<span id="cb22-26"><a href="#cb22-26" aria-hidden="true" tabindex="-1"></a></span>
-<span id="cb22-27"><a href="#cb22-27" aria-hidden="true" tabindex="-1"></a><span class="co"># Calculate metrics</span></span>
-<span id="cb22-28"><a href="#cb22-28" aria-hidden="true" tabindex="-1"></a><span class="bu">print</span>(<span class="st">"Random Forest Performance:"</span>)</span>
-<span id="cb22-29"><a href="#cb22-29" aria-hidden="true" tabindex="-1"></a><span class="bu">print</span>(<span class="ss">f"Accuracy: </span><span class="sc">{</span>accuracy_score(y_test, rf_pred)<span class="sc">:.3f}</span><span class="ss">"</span>)</span>
-<span id="cb22-30"><a href="#cb22-30" aria-hidden="true" tabindex="-1"></a><span class="bu">print</span>(<span class="ss">f"ROC AUC: </span><span class="sc">{</span>roc_auc_score(y_test, rf_pred_proba)<span class="sc">:.3f}</span><span class="ss">"</span>)</span>
-<span id="cb22-31"><a href="#cb22-31" aria-hidden="true" tabindex="-1"></a><span class="bu">print</span>(<span class="st">"</span><span class="ch">\n</span><span class="st">XGBoost Performance:"</span>)</span>
-<span id="cb22-32"><a href="#cb22-32" aria-hidden="true" tabindex="-1"></a><span class="bu">print</span>(<span class="ss">f"Accuracy: </span><span class="sc">{</span>accuracy_score(y_test, xgb_pred)<span class="sc">:.3f}</span><span class="ss">"</span>)</span>
-<span id="cb22-33"><a href="#cb22-33" aria-hidden="true" tabindex="-1"></a><span class="bu">print</span>(<span class="ss">f"ROC AUC: </span><span class="sc">{</span>roc_auc_score(y_test, xgb_pred_proba)<span class="sc">:.3f}</span><span class="ss">"</span>)</span>
-<span id="cb22-34"><a href="#cb22-34" aria-hidden="true" tabindex="-1"></a></span>
-<span id="cb22-35"><a href="#cb22-35" aria-hidden="true" tabindex="-1"></a></span></code><button title="Copy to Clipboard" class="code-copy-button"><i class="bi"></i></button></pre></div>
+<span id="cb22-24"><a href="#cb22-24" aria-hidden="true" tabindex="-1"></a><span class="co"># Get predictions</span></span>
+<span id="cb22-25"><a href="#cb22-25" aria-hidden="true" tabindex="-1"></a>rf_pred <span class="op">=</span> rf.predict(X_test_encoded)</span>
+<span id="cb22-26"><a href="#cb22-26" aria-hidden="true" tabindex="-1"></a>rf_pred_proba <span class="op">=</span> rf.predict_proba(X_test_encoded)[:,<span class="dv">1</span>]</span>
+<span id="cb22-27"><a href="#cb22-27" aria-hidden="true" tabindex="-1"></a></span>
+<span id="cb22-28"><a href="#cb22-28" aria-hidden="true" tabindex="-1"></a>xgb_pred <span class="op">=</span> xgb_model.predict(X_test_encoded_np)</span>
+<span id="cb22-29"><a href="#cb22-29" aria-hidden="true" tabindex="-1"></a>xgb_pred_proba <span class="op">=</span> xgb_model.predict_proba(X_test_encoded_np)[:,<span class="dv">1</span>]</span>
+<span id="cb22-30"><a href="#cb22-30" aria-hidden="true" tabindex="-1"></a></span>
+<span id="cb22-31"><a href="#cb22-31" aria-hidden="true" tabindex="-1"></a><span class="co"># Calculate metrics</span></span>
+<span id="cb22-32"><a href="#cb22-32" aria-hidden="true" tabindex="-1"></a><span class="bu">print</span>(<span class="st">"Random Forest Performance:"</span>)</span>
+<span id="cb22-33"><a href="#cb22-33" aria-hidden="true" tabindex="-1"></a><span class="bu">print</span>(<span class="ss">f"Accuracy: </span><span class="sc">{</span>accuracy_score(y_test, rf_pred)<span class="sc">:.3f}</span><span class="ss">"</span>)</span>
+<span id="cb22-34"><a href="#cb22-34" aria-hidden="true" tabindex="-1"></a><span class="bu">print</span>(<span class="ss">f"ROC AUC: </span><span class="sc">{</span>roc_auc_score(y_test, rf_pred_proba)<span class="sc">:.3f}</span><span class="ss">"</span>)</span>
+<span id="cb22-35"><a href="#cb22-35" aria-hidden="true" tabindex="-1"></a><span class="bu">print</span>(<span class="st">"</span><span class="ch">\n</span><span class="st">XGBoost Performance:"</span>)</span>
+<span id="cb22-36"><a href="#cb22-36" aria-hidden="true" tabindex="-1"></a><span class="bu">print</span>(<span class="ss">f"Accuracy: </span><span class="sc">{</span>accuracy_score(y_test, xgb_pred)<span class="sc">:.3f}</span><span class="ss">"</span>)</span>
+<span id="cb22-37"><a href="#cb22-37" aria-hidden="true" tabindex="-1"></a><span class="bu">print</span>(<span class="ss">f"ROC AUC: </span><span class="sc">{</span>roc_auc_score(y_test, xgb_pred_proba)<span class="sc">:.3f}</span><span class="ss">"</span>)</span></code><button title="Copy to Clipboard" class="code-copy-button"><i class="bi"></i></button></pre></div>
 <div class="cell-output cell-output-stdout">
-<pre><code>[22:47:17] WARNING: /var/folders/nz/j6p8yfhx1mv_0grj5xl4650h0000gp/T/abs_eek2t0c4ro/croots/recipe/xgboost-split_1659548960591/work/src/learner.cc:1115: Starting in XGBoost 1.3.0, the default evaluation metric used with the objective 'binary:logistic' was changed from 'error' to 'logloss'. Explicitly set eval_metric if you'd like to restore the old behavior.
+<pre><code>[22:00:31] WARNING: /var/folders/nz/j6p8yfhx1mv_0grj5xl4650h0000gp/T/abs_eek2t0c4ro/croots/recipe/xgboost-split_1659548960591/work/src/learner.cc:1115: Starting in XGBoost 1.3.0, the default evaluation metric used with the objective 'binary:logistic' was changed from 'error' to 'logloss'. Explicitly set eval_metric if you'd like to restore the old behavior.
 Random Forest Performance:
 Accuracy: 0.880
 ROC AUC: 0.944

diff --git a/index.html b/index.html
@@ -200,7 +200,7 @@ window.Quarto = {
 
 <div class="quarto-listing quarto-listing-container-default" id="listing-listing">
 <div class="list quarto-listing-default">
-<div class="quarto-post image-right" data-index="0" data-listing-date-sort="1738299600000" data-listing-file-modified-sort="1739076206896" data-listing-date-modified-sort="NaN" data-listing-reading-time-sort="15" data-listing-word-count-sort="2836">
+<div class="quarto-post image-right" data-index="0" data-listing-date-sort="1738299600000" data-listing-file-modified-sort="1739250028225" data-listing-date-modified-sort="NaN" data-listing-reading-time-sort="15" data-listing-word-count-sort="2870">
 <div class="thumbnail">
 <p><a href="./posts/2021-01-31-ebm.html" class="no-external"></a></p><a href="./posts/2021-01-31-ebm.html" class="no-external">
 <p class="card-img-top"><img src="posts/ebm_diagram.png" alt="EBMs Architecture"  class="thumbnail-image card-img"/></p>
